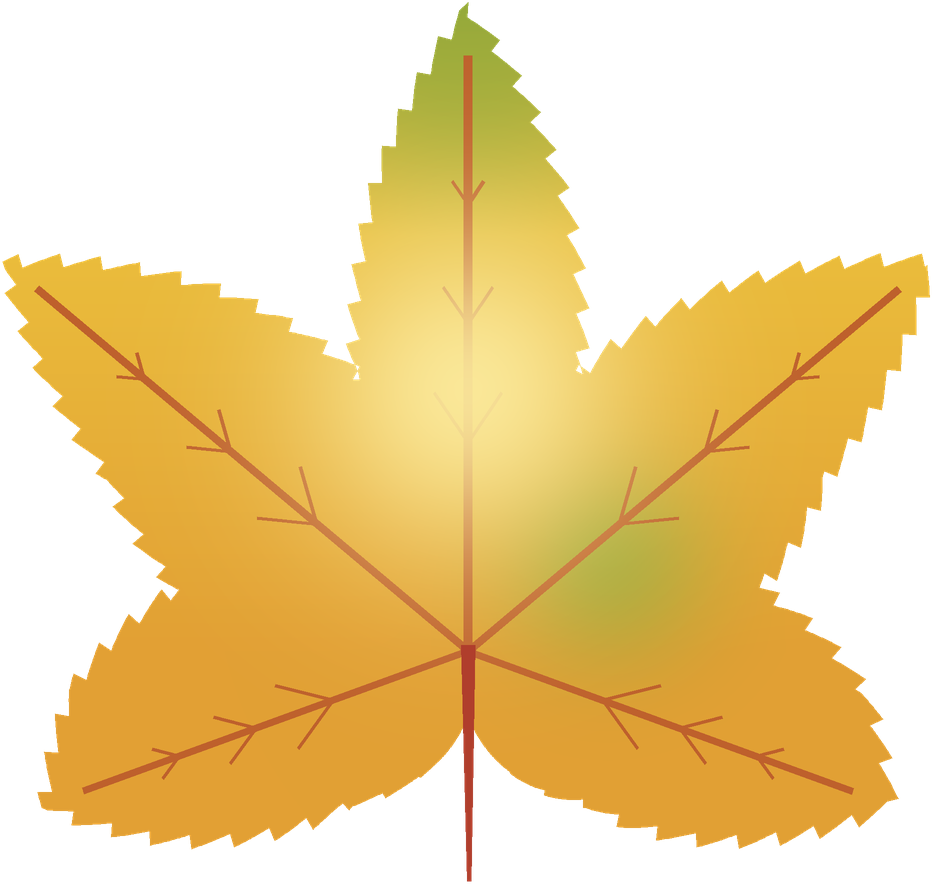
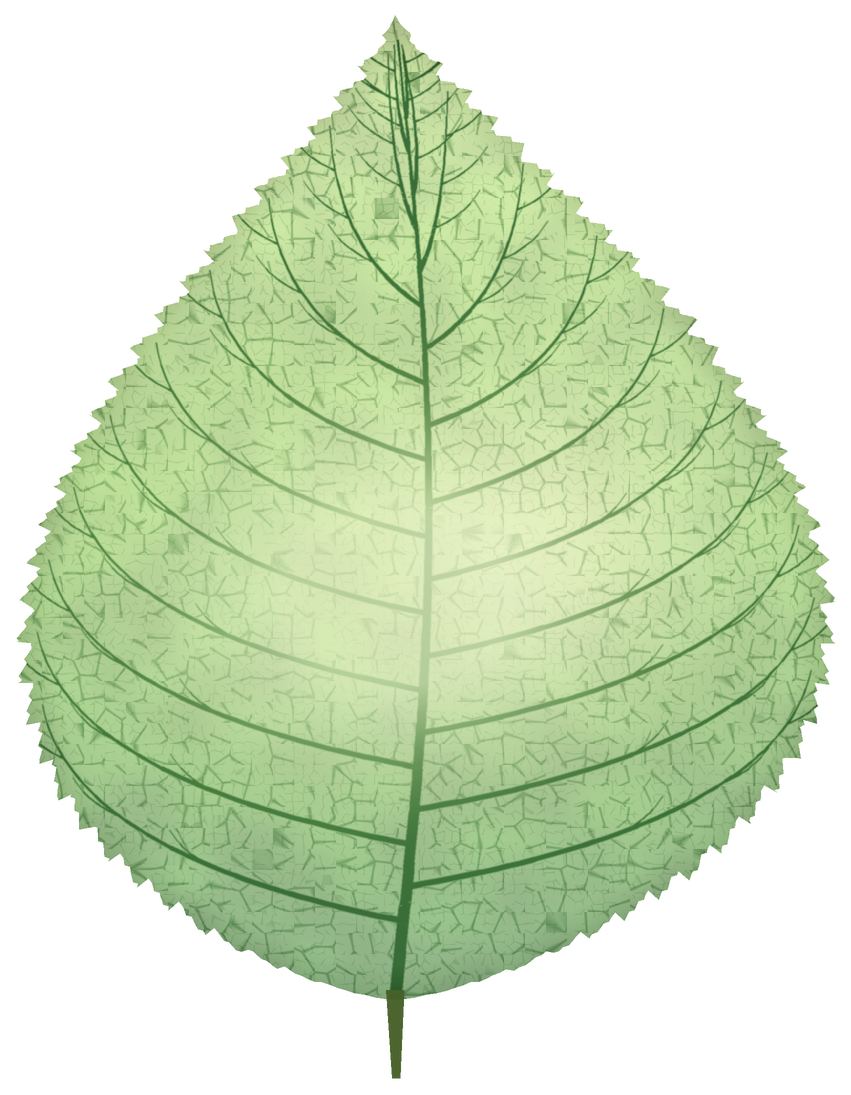
Translucent backlit leaf (iteration 12)

diff --git a/Sources/CozyQuickNoteDesk/QuickCapture/LeafCaptureView.swift b/Sources/CozyQuickNoteDesk/QuickCapture/LeafCaptureView.swift
@@ -9,8 +9,9 @@ struct LeafCaptureView: View {
     @State private var color: NoteColor = LeafDraft.color
     @FocusState private var focused: Bool
 
-    // The writing area, as fractions of the leaf image (matches the pale glow in leaf.png).
-    private let writing = CGRect(x: 0.27, y: 0.44, width: 0.46, height: 0.27)
+    // The writing area, as fractions of the leaf image (the pale patch in leaf.png).
+    private let writing = LeafLayout.writingArea
+    private let ink = Color(red: 0.10, green: 0.20, blue: 0.09)
 
     var body: some View {
         VStack(spacing: 14) {
@@ -31,22 +32,21 @@ struct LeafCaptureView: View {
                 Image(systemName: "leaf.fill").resizable().scaledToFit().foregroundColor(.orange)
             }
         }
-        .frame(width: 560)
-        .shadow(color: .black.opacity(0.30), radius: 16, x: 0, y: 10)
+        .frame(width: 450)      // no drop shadow: the leaf is translucent, a shadow would show through it
         .overlay(
             GeometryReader { geo in
                 ZStack(alignment: .topLeading) {
                     if text.isEmpty {
                         Text("A thought, an idea…")
                             .font(Theme.hand(18))
-                            .foregroundColor(Theme.ink.opacity(0.45))
+                            .foregroundColor(ink.opacity(0.50))
                             .padding(.horizontal, 5)
                             .padding(.top, 8)
                             .allowsHitTesting(false)
                     }
                     TextEditor(text: textBinding)
                         .font(Theme.hand(18))
-                        .foregroundColor(Theme.ink)
+                        .foregroundColor(ink)
                         .scrollContentBackground(.hidden)
                         .focused($focused)
                 }

diff --git a/Sources/CozyQuickNoteDesk/Views/Shared/LeafLayout.swift b/Sources/CozyQuickNoteDesk/Views/Shared/LeafLayout.swift
@@ -1,0 +1,9 @@
+import CoreGraphics
+
+/// Where text is written on leaf.png, as fractions of the image, and its shape.
+/// Generated by scripts/generate_leaf.py.
+enum LeafLayout {
+    static let writingArea = CGRect(x: 0.212, y: 0.400, width: 0.505, height: 0.291)
+    /// Width divided by height of leaf.png.
+    static let aspect: Double = 0.7772
+}

diff --git a/scripts/generate_leaf.py b/scripts/generate_leaf.py
@@ -1,118 +1,212 @@
 #!/usr/bin/env python3
-"""Generates the transparent maple-leaf PNG used by the quick-capture popup.
+"""Draws the quick-capture leaf: a translucent, backlit green leaf with a fine vein network.
+
+The artwork is semi-transparent on purpose. Whatever is behind the leaf (the window you were just
+using) shows through it, like light passing through a real leaf, while the veins stay solid.
+A pale, calmer patch in the middle is where you write.
 
 Usage:  python3 scripts/generate_leaf.py
 Needs:  pip install pillow numpy
 Output: Sources/CozyQuickNoteDesk/Resources/leaf.png
+        Sources/CozyQuickNoteDesk/Views/Shared/LeafLayout.swift   (where the text goes on the leaf)
 """
 import math
 from pathlib import Path
 
 import numpy as np
-from PIL import Image, ImageDraw
+from PIL import Image, ImageChops, ImageDraw, ImageFilter
 
-SS = 2                      # supersampling factor for smooth edges
-W, H = 1000, 1000
-CX, CY, R = 500, 730, 640   # leaf base point and outer radius
-
-# (angle from vertical in degrees, radius fraction): lobes and notches
-CTRL = [(0, 1.0), (11, 0.74), (22, 0.46), (36, 0.70), (50, 0.94), (64, 0.62),
-        (78, 0.46), (96, 0.62), (110, 0.70), (126, 0.50), (142, 0.30), (180, 0.10)]
+ROOT = Path(__file__).resolve().parent.parent
+SS = 2                                   # supersampling for smooth edges
+W, H = 1000, 1180                        # canvas before supersampling
+BASE_Y, LENGTH, HALF_W = 1075, 985, 405
+CX0 = 500
 
 
-def radius(theta):
-    t = abs(theta)
-    for (a0, r0), (a1, r1) in zip(CTRL, CTRL[1:]):
-        if a0 <= t <= a1:
-            return r0 + (r1 - r0) * (t - a0) / (a1 - a0)
-    return CTRL[-1][1]
+# ---------------------------------------------------------------- leaf geometry
+def _bw(t, a=0.72, b=1.22):
+    """Half-width profile: rounded base, widest about 37% up, long pointed tip."""
+    t = min(max(t, 0.0), 1.0)
+    peak = (a / (a + b)) ** a * (b / (a + b)) ** b
+    return (t ** a) * ((1 - t) ** b) / peak
 
 
-def pt(theta, r):
-    a = math.radians(theta)
-    return (CX + r * R * math.sin(a), CY - r * R * math.cos(a))
+def cx(t):
+    return CX0 + 34 * math.sin(math.pi * t)          # the midrib bends a little, like the real leaf
 
 
-def serrate(points, period=40.0, amp=15.0):
-    """Offset each point along its outward normal with a sawtooth of arc length (pointed teeth)."""
+def cy(t):
+    return BASE_Y - t * LENGTH
+
+
+def half_width(t):
+    return HALF_W * _bw(t)
+
+
+def side_points(sign, n=420):
+    return [(cx(i / n) + sign * half_width(i / n), cy(i / n)) for i in range(n + 1)]
+
+
+def serrate(points, period, amp, sign):
+    """Sawtooth teeth along the margin (normal offset by arc length), fading out at base and tip."""
     out, dist, n = [], 0.0, len(points)
     for i, (x, y) in enumerate(points):
-        px, py = points[i - 1]
-        nx, ny = points[(i + 1) % n]
+        if i:
+            dist += math.hypot(x - points[i - 1][0], y - points[i - 1][1])
+        px, py = points[max(i - 1, 0)]
+        nx, ny = points[min(i + 1, n - 1)]
         tx, ty = nx - px, ny - py
         ln = math.hypot(tx, ty) or 1.0
-        ox, oy = ty / ln, -tx / ln
-        if i:
-            dist += math.hypot(x - px, y - py)
-        k = min(1.0, max(0.0, (math.hypot(x - CX, y - CY) - 120) / 120))   # no teeth near the stem
-        saw = ((dist / period) % 1.0) - 0.3
+        ox, oy = sign * ty / ln, -sign * tx / ln
+        t = i / (n - 1)
+        k = min(1.0, t / 0.10) * min(1.0, (1 - t) / 0.06)
+        saw = ((dist / period) % 1.0) - 0.35
         out.append((x + ox * amp * saw * k, y + oy * amp * saw * k))
     return out
 
 
-outline = serrate([pt(t / 4.0, radius(t / 4.0)) for t in range(-720, 721)])
+right = serrate(serrate(side_points(1), 40, 15, 1), 17, 5, 1)
+left = serrate(serrate(side_points(-1), 40, 15, -1), 17, 5, -1)
+outline = right + left[::-1]
+
 mask = Image.new("L", (W * SS, H * SS), 0)
 ImageDraw.Draw(mask).polygon([(x * SS, y * SS) for x, y in outline], fill=255)
-
-# colour: green crown -> golden body -> amber base
-yy, xx = np.mgrid[0:H * SS, 0:W * SS].astype(np.float32)
-yy /= SS
-xx /= SS
-t = np.clip((yy - (CY - R)) / R, 0, 1)[..., None]
-green = np.array([150, 170, 58], np.float32)
-gold = np.array([235, 190, 60], np.float32)
-amber = np.array([226, 160, 52], np.float32)
-col = np.where(t < 0.35, green + (gold - green) * (t / 0.35), gold + (amber - gold) * ((t - 0.35) / 0.65))
+m = np.asarray(mask).astype(np.float32) / 255.0
+mask_blur = np.asarray(mask.filter(ImageFilter.GaussianBlur(34 * SS))).astype(np.float32) / 255.0
 
 
-def blob(cx, cy, s):
-    return np.exp(-(((xx - cx) ** 2 + (yy - cy) ** 2) / (2 * s * s)))[..., None]
+# ---------------------------------------------------------------- veins
+def bezier(p0, p1, p2, n=48):
+    return [((1 - u) ** 2 * p0[0] + 2 * (1 - u) * u * p1[0] + u * u * p2[0],
+             (1 - u) ** 2 * p0[1] + 2 * (1 - u) * u * p1[1] + u * u * p2[1]) for u in (i / n for i in range(n + 1))]
 
 
-col = col + (green - col) * 0.75 * blob(640, 640, 70)
-col = col + (green - col) * 0.55 * blob(500, 150, 90)
-img = Image.fromarray(np.clip(col, 0, 255).astype(np.uint8), "RGB").convert("RGBA")
-
-# veins
-d = ImageDraw.Draw(img)
-vein = (190, 96, 44, 255)
-
-
-def line(p0, p1, w):
-    d.line([(p0[0] * SS, p0[1] * SS), (p1[0] * SS, p1[1] * SS)], fill=vein, width=int(w * SS))
+def taper(draw, pts, w0, w1):
+    n = len(pts) - 1
+    for i in range(n):
+        w = w0 + (w1 - w0) * i / n
+        draw.line([(pts[i][0] * SS, pts[i][1] * SS), (pts[i + 1][0] * SS, pts[i + 1][1] * SS)],
+                  fill=255, width=max(1, int(w * SS)))
 
 
-base = (CX, CY)
+veins = Image.new("L", mask.size, 0)
+vd = ImageDraw.Draw(veins)
+taper(vd, [(cx(i / 200), cy(i / 200)) for i in range(0, 196)], 13, 2.5)          # midrib
+
 for sign in (-1, 1):
-    for ang, frac, w in [(0, 0.93, 9), (50, 0.88, 8), (110, 0.64, 7)]:
-        tip = pt(sign * ang, frac)
-        line(base, tip, w)
-        for k in (0.35, 0.55, 0.75):
-            sx = base[0] + (tip[0] - base[0]) * k
-            sy = base[1] + (tip[1] - base[1]) * k
-            for off in (-34, 34):
-                ex = sx + math.sin(math.radians(sign * ang + off)) * 80 * (1.1 - k)
-                ey = sy - math.cos(math.radians(sign * ang + off)) * 80 * (1.1 - k)
-                line((sx, sy), (ex, ey), 3.5)
+    for i in range(11):
+        t0 = 0.08 + i * 0.078 + (0.035 if sign > 0 else 0.0)
+        t1 = min(0.97, t0 + 0.17 + 0.05 * (1 - i / 11))
+        start = (cx(t0), cy(t0))
+        end = (cx(t1) + sign * (half_width(t1) - 16), cy(t1))
+        ctrl = (start[0] + sign * abs(end[0] - start[0]) * 0.92, start[1] + (end[1] - start[1]) * 0.30)
+        pts = bezier(start, ctrl, end)
+        taper(vd, pts, 7.0 - i * 0.2, 1.6)
+        # small branches from each secondary vein toward the margin
+        for k in (0.35, 0.6, 0.82):
+            bx, by = pts[int(k * 48)]
+            ex, ey = bx + sign * 46, by - 38
+            taper(vd, bezier((bx, by), (bx + sign * 30, by - 12), (ex, ey), 14), 2.6, 1.0)
 
-# soft pale glow over the writing area so text stays legible on top of the veins
-arr = np.array(img).astype(np.float32)
-a = (np.exp(-(((xx - CX) ** 2) / (2 * 120 ** 2) + ((yy - 470) ** 2) / (2 * 120 ** 2))) * 0.92)[..., None]
-arr[..., :3] = arr[..., :3] * (1 - a) + np.array([252, 236, 160], np.float32) * a
-img = Image.fromarray(arr.astype(np.uint8), "RGBA")
-d = ImageDraw.Draw(img)
+veins_main = np.asarray(veins.filter(ImageFilter.GaussianBlur(0.6 * SS))).astype(np.float32) / 255.0
+
+
+def worley_edges(w, h, cell, seed):
+    """Cell borders of a Worley (cellular) noise: looks like the fine net of a real leaf."""
+    rs = np.random.RandomState(seed)
+    gx, gy = w // cell + 4, h // cell + 4
+    px = (np.arange(gx)[None, :] + rs.rand(gy, gx)) * cell
+    py = (np.arange(gy)[:, None] + rs.rand(gy, gx)) * cell
+    yy, xx = np.mgrid[0:h, 0:w].astype(np.float32)
+    ci = (xx // cell).astype(np.int32) + 1
+    cj = (yy // cell).astype(np.int32) + 1
+    f1 = np.full((h, w), 1e9, np.float32)
+    f2 = np.full((h, w), 1e9, np.float32)
+    for dj in (-1, 0, 1):
+        for di in (-1, 0, 1):
+            nx = px[cj + dj, ci + di].astype(np.float32)
+            ny = py[cj + dj, ci + di].astype(np.float32)
+            d = np.sqrt((xx - nx) ** 2 + (yy - ny) ** 2)
+            f2 = np.minimum(f2, np.maximum(f1, d))
+            f1 = np.minimum(f1, d)
+    return np.clip(1 - (f2 - f1) / (cell * 0.16), 0, 1)
+
+
+net_coarse = worley_edges(W * SS, H * SS, 21 * SS, 3)
+net_fine = worley_edges(W * SS, H * SS, 10 * SS, 8)
+net = np.clip(net_coarse * 0.85 + net_fine * 0.40, 0, 1)
+
+# ---------------------------------------------------------------- colour and light
+yy, xx = np.mgrid[0:H * SS, 0:W * SS].astype(np.float32)
+fx, fy = xx / (W * SS), yy / (H * SS)
+
+
+def blob(x, y, rx, ry):
+    return np.exp(-(((fx - x) / rx) ** 2 + ((fy - y) / ry) ** 2))
+
+
+tpos = np.clip((BASE_Y - yy / SS) / LENGTH, 0, 1)[..., None]
+dark = np.array([58, 128, 44], np.float32)
+mid = np.array([124, 186, 66], np.float32)
+light = np.array([176, 214, 104], np.float32)
+cell_col = np.where(tpos < 0.5, dark + (mid - dark) * (tpos / 0.5), mid + (light - mid) * ((tpos - 0.5) / 0.5))
+
+rs = np.random.RandomState(4)
+patch = Image.fromarray((rs.rand(H // 40, W // 40) * 255).astype(np.uint8)).resize((W * SS, H * SS), Image.BICUBIC)
+cell_col = cell_col * (0.90 + 0.18 * (np.asarray(patch).astype(np.float32) / 255.0))[..., None]
+
+flare = blob(0.64, 0.52, 0.17, 0.12)[..., None]                       # sunlight coming through
+cell_col = cell_col * (1 - 0.55 * flare) + np.array([250, 244, 186], np.float32) * 0.55 * flare
+
+# the calm, pale patch where the text goes
+zone = blob(0.50, 0.57, 0.24, 0.155)
+zone = np.clip(zone * 1.25, 0, 1) ** 0.8
+v = np.clip(np.maximum(veins_main, net * 0.62), 0, 1) * (1 - 0.82 * zone)
+cell_col = cell_col * (1 - 0.74 * zone[..., None]) + np.array([244, 250, 216], np.float32) * 0.74 * zone[..., None]
+
+vein_col = np.array([34, 92, 34], np.float32)
+color = cell_col * (1 - v[..., None]) + vein_col * v[..., None]
+rim = np.clip(mask_blur / 0.80, 0, 1)
+color *= (0.66 + 0.34 * rim)[..., None]
+
+alpha = 0.56 + 0.34 * v + 0.14 * (1 - rim) + 0.38 * zone
+alpha = np.maximum(alpha, 0.96 * zone ** 0.7)       # the writing patch stays readable over busy windows
+alpha = np.clip(alpha, 0, 0.97) * m
+
+img = Image.fromarray(np.dstack([np.clip(color, 0, 255), alpha * 255]).astype(np.uint8), "RGBA")
 
 # stem
-stem_pts = [((CX - 7) * SS, (CY - 6) * SS), ((CX + 7) * SS, (CY - 6) * SS),
-            ((CX + 3) * SS, 960 * SS), ((CX - 1) * SS, 960 * SS)]
-d.polygon(stem_pts, fill=(176, 62, 44, 255))
-stem = Image.new("L", mask.size, 0)
-ImageDraw.Draw(stem).polygon(stem_pts, fill=255)
-img.putalpha(Image.fromarray(np.maximum(np.array(mask), np.array(stem))))
-img = img.resize((W, H), Image.LANCZOS)
-img = img.crop(img.getbbox())
+stem = Image.new("RGBA", img.size, (0, 0, 0, 0))
+sd = ImageDraw.Draw(stem)
+sd.polygon([((CX0 - 9) * SS, (BASE_Y - 10) * SS), ((CX0 + 9) * SS, (BASE_Y - 10) * SS),
+            ((CX0 + 5) * SS, (BASE_Y + 78) * SS), ((CX0 - 3) * SS, (BASE_Y + 78) * SS)], fill=(70, 96, 40, 245))
+img.alpha_composite(stem)
 
-out = Path(__file__).resolve().parent.parent / "Sources/CozyQuickNoteDesk/Resources/leaf.png"
+img = img.resize((W, H), Image.LANCZOS)
+box = img.getbbox()
+pad = 14
+img = img.crop((box[0] - pad, box[1] - pad, box[2] + pad, box[3] + pad))
+
+out = ROOT / "Sources/CozyQuickNoteDesk/Resources/leaf.png"
 out.parent.mkdir(parents=True, exist_ok=True)
 img.save(out)
+
+# where the writing goes, as fractions of the final image
+cw, ch = img.size
+zx0, zx1 = (0.50 - 0.215) * W, (0.50 + 0.215) * W
+zy0, zy1 = (0.57 - 0.135) * H, (0.57 + 0.135) * H
+tx, ty = (zx0 - (box[0] - pad)) / cw, (zy0 - (box[1] - pad)) / ch
+tw, th = (zx1 - zx0) / cw, (zy1 - zy0) / ch
+layout = ROOT / "Sources/CozyQuickNoteDesk/Views/Shared/LeafLayout.swift"
+layout.write_text(f"""import CoreGraphics
+
+/// Where text is written on leaf.png, as fractions of the image, and its shape.
+/// Generated by scripts/generate_leaf.py.
+enum LeafLayout {{
+    static let writingArea = CGRect(x: {tx:.3f}, y: {ty:.3f}, width: {tw:.3f}, height: {th:.3f})
+    /// Width divided by height of leaf.png.
+    static let aspect: Double = {cw / ch:.4f}
+}}
+""")
 print("saved", out, img.size)
+print(layout.read_text())

diff --git a/scripts/generate_icon.py b/scripts/generate_icon.py
@@ -51,7 +51,7 @@ body.alpha_composite(shade)
 
 # the leaf
 leaf = Image.open(ROOT / "Sources/CozyQuickNoteDesk/Resources/leaf.png").convert("RGBA")
-target_h = int(BODY * 0.70)
+target_h = int(BODY * 0.78)
 leaf = leaf.resize((int(leaf.width * target_h / leaf.height), target_h), Image.LANCZOS).rotate(-8, Image.BICUBIC, expand=True)
 lx, ly = (BODY - leaf.width) // 2, (BODY - leaf.height) // 2 - 6
 lshadow = Image.new("RGBA", body.size, (30, 16, 6, 0))

diff --git a/improvements/12-translucent-leaf.md b/improvements/12-translucent-leaf.md
@@ -1,0 +1,18 @@
+# 12. A translucent, backlit leaf
+
+**Kind:** Feature
+
+## Goal
+Replace the maple leaf with a more natural green leaf and let what is behind it show through, like light passing through a real leaf.
+
+## What changed
+- New artwork, still drawn by code (`scripts/generate_leaf.py`): an ovate leaf with a serrated edge, a bent midrib, curved side veins and a fine cell network made with cellular (Worley) noise.
+- The leaf is **semi-transparent**: the window or page you were just using shows through the leaf, while the veins stay solid. The drop shadow was removed, because a shadow would show through a translucent leaf and make it muddy.
+- A pale, calmer, more solid patch in the middle is the writing area, so text stays readable over busy windows. Its position is exported to Swift automatically (`LeafLayout.swift`).
+- The app icon now uses the new leaf.
+
+## How it is to be checked
+Open the leaf over a dark desktop, a white page and a busy browser tab; the text must stay readable and the content behind should be visible through the leaf. Pin a thought and confirm it still lands on the board.
+
+## What was learned
+Translucency is a trade-off with legibility. Keep the reading area calmer and more opaque than the decoration around it.

diff --git a/README.md b/README.md
@@ -2,7 +2,7 @@
 
 A native macOS app that turns your thoughts into sticky notes pinned on a cork board, in a warm, softly lit **virtual study room**. Wooden desk, ivy, shelves of books, a glowing lamp and twinkling fairy lights. Every screen belongs to the same room.
 
-> Press a shortcut from anywhere → a transparent **maple leaf** floats up → write your thought → it's pinned on your board. Tick the circle when it's done and it fades into the Archive.
+> Press a shortcut from anywhere → a translucent **leaf** floats up → write your thought → it's pinned on your board. Tick the circle when it's done and it fades into the Archive.
 
 **Capture instantly · save automatically · organize naturally · complete peacefully.**
 
@@ -122,6 +122,10 @@ Want a different mood? Edit the colours and object positions in `scripts/generat
 - [x] Virtual study room, cork board, shaped notes, dragging
 - [x] Completion, archive, restore
 - [ ] Final polish, app icon, release build
+
+## Project history
+
+This project keeps improving. Every change, bug and lesson is written up in [`improvements/`](improvements/).
 
 ## License
 MIT

diff --git a/docs/DESIGN.md b/docs/DESIGN.md
@@ -12,7 +12,7 @@ dropped in front of a picture.
 | Platform | Native macOS, Swift + SwiftUI | Light, fast, offline, can use global shortcuts and the menu bar |
 | Storage | One JSON file in Application Support | A notes app holds hundreds of notes, not millions; atomic writes make crashes safe |
 | Global shortcut | Hard-coded in `AppConstants.swift`, registered with Carbon `RegisterEventHotKey` | No helper app, no permissions, instant |
-| Quick capture | Transparent maple leaf panel | Playful, distinct from the board's sticky notes |
+| Quick capture | Translucent leaf panel | Playful, distinct from the board's sticky notes |
 | Artwork | Rendered by Python scripts, committed as JPG | No licensing issues, reproducible, tweakable |
 | Note placement | Random spot on the cork board, far from other notes; stored as fractions of the board | Looks naturally filled and survives window resizing |
 | Notes | Eight stationery designs (paper layer tinted by the note colour + untinted tape, bow and sticker layer), tilted -4°…+4° | Cozy, varied look; the colour picker still works on every design |
